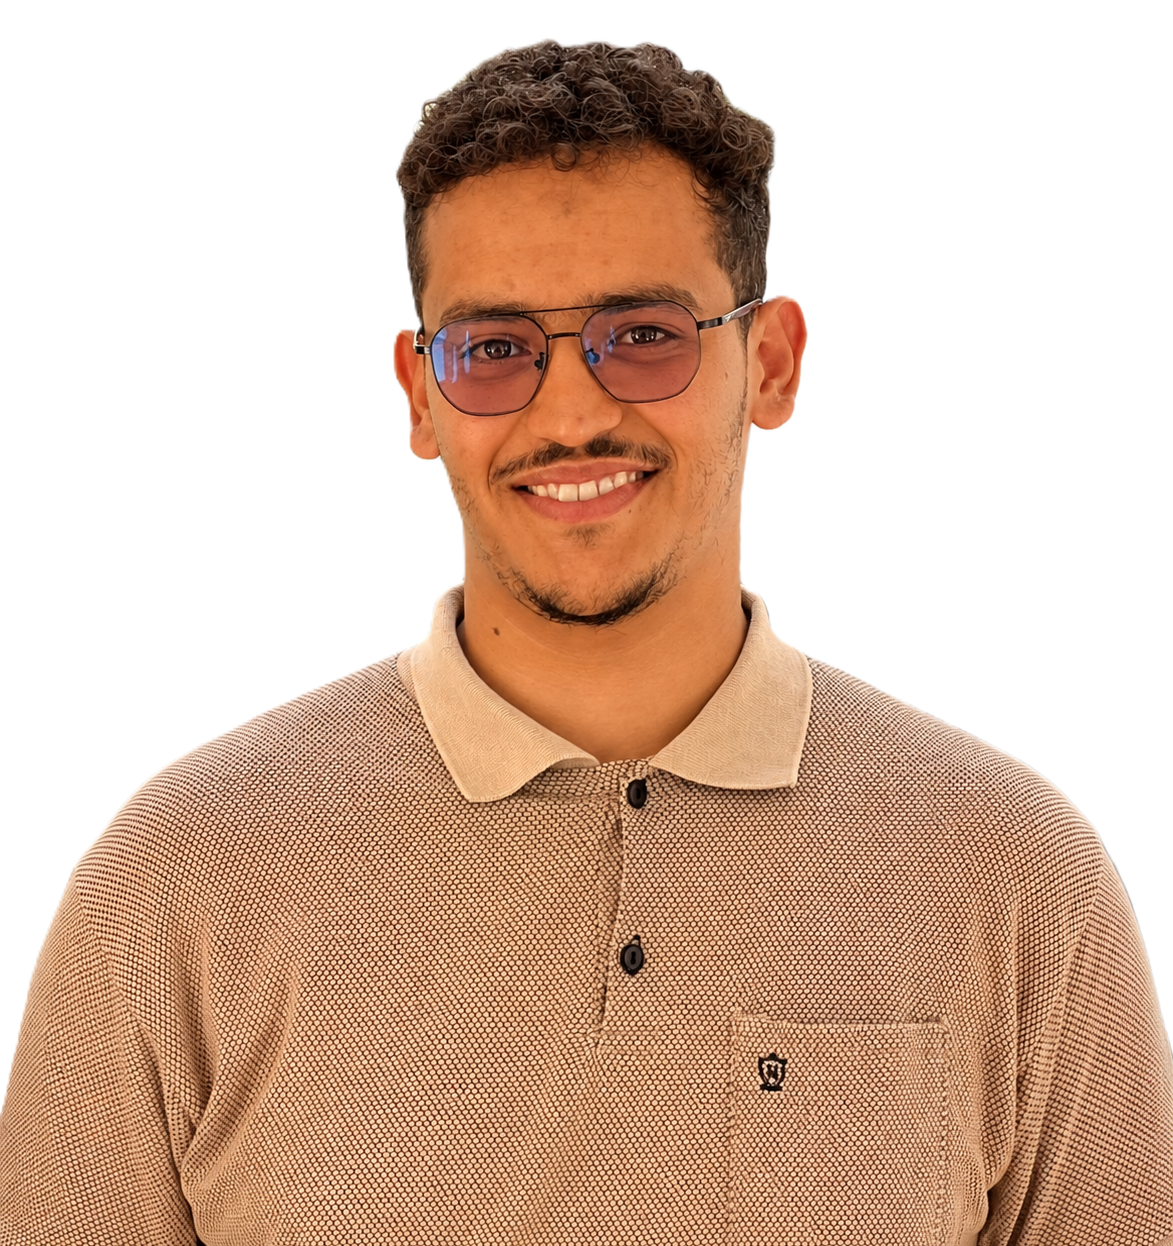
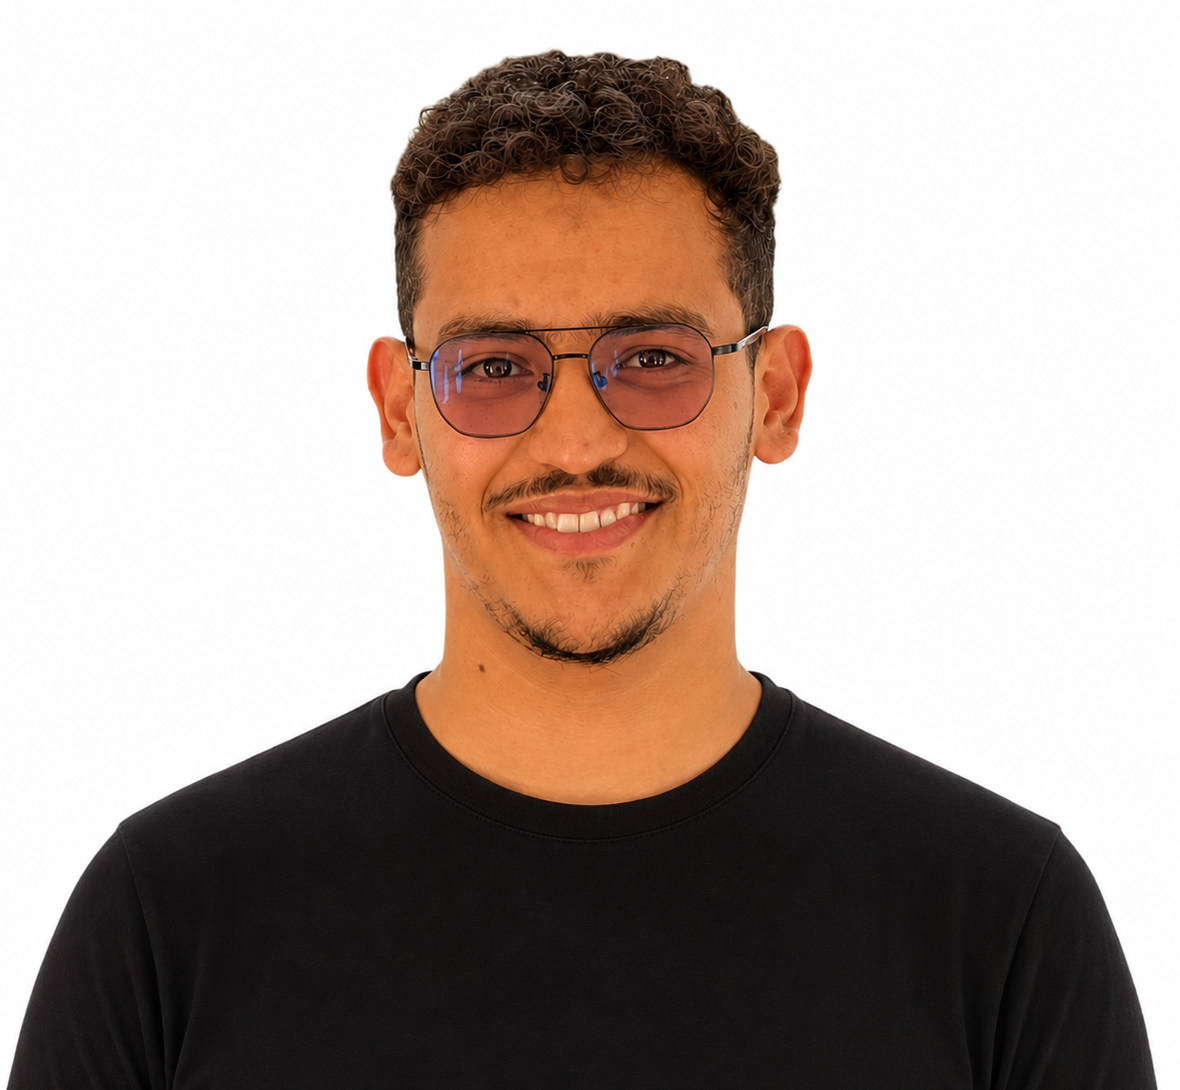
edit image

diff --git a/index.html b/index.html
@@ -14,7 +14,7 @@
       <div class="hero-content">
         <div class="profile-image-wrapper">
           <img
-            src="images/portfolioImg.jpeg"
+            src="images/portfolioImg.png"
             alt="Abdelwaheb Bouchahwa"
             class="profile-image"
           />